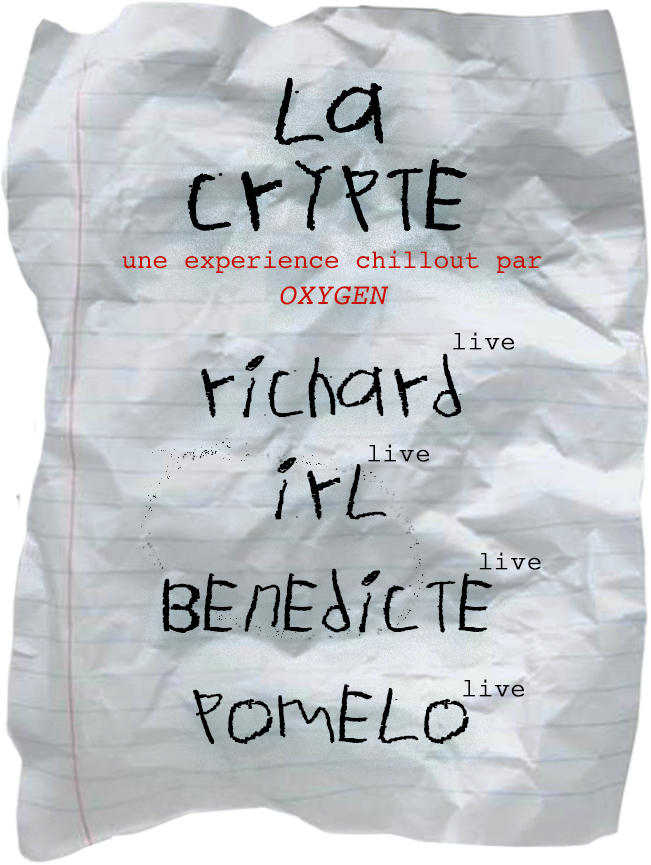
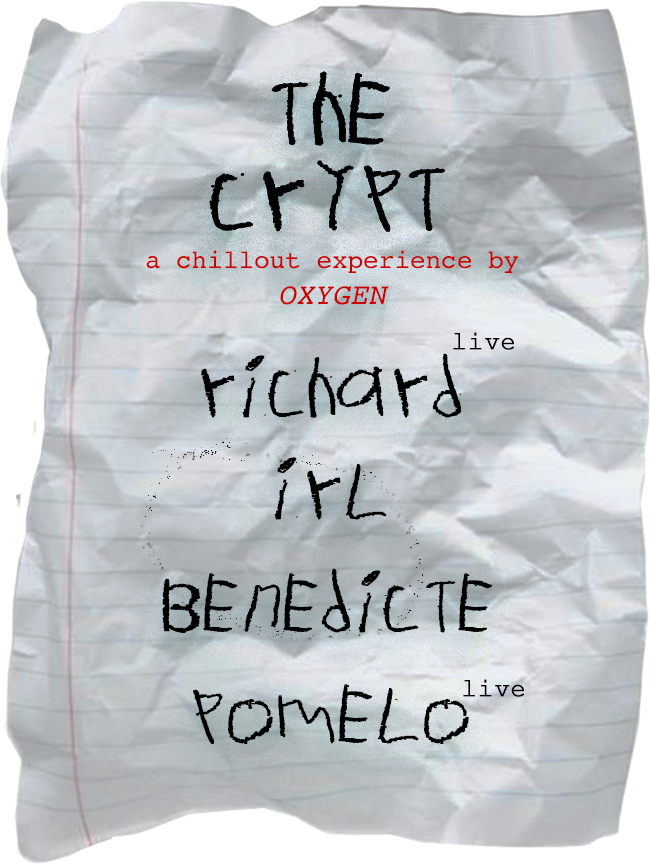
updated oxygen lineup

Changed region(s): [[0.1843, 0.0624, 0.8295, 0.3121], [0.768, 0.6243, 0.8295, 0.6555], [0.6144, 0.4994, 0.6452, 0.5306]]

diff --git a/navigation-fr.html b/navigation-fr.html
@@ -80,8 +80,8 @@
             <h2>la crypte</h2>
             <p id="txt-sub">une expérience<br>chillout par<br>OXYGEN</p>
             <p>richard<span id="txt-location">live</span></p>
-            <p>IRL<span id="txt-location">live</span></p>
-            <p>Benedicte<span id="txt-location">live</span></p>
+            <p>IRL<span id="txt-location"></span></p>
+            <p>Benedicte<span id="txt-location"></span></p>
             <p>Pomelo<span id="txt-location">live</span></p>
           </div>
           <picture>
@@ -189,9 +189,7 @@
         <div id="text">
           <h2>contact</h2>
           <p><br>
-            Cet événement est organisé par notre communauté et toutes les contributions sont les bienvenues. N'hésitez
-            pas à nous contacter si vous êtes en mesure de contribuer avec un projet créatif, du matériel ou de l'aide
-            pratique :)
+            Cet événement est organisé par notre communauté et toutes les contributions sont les bienvenues. SVP CONTACTEZ-NOUS PAR COURRIEL. NOUS NE RÉPONDONS PAS AU MPs SUR INSTA.
             <br><br>
             <a href="mailto:the.banshee.night[at]gmail[dot]com" id="link" style="font-size: 18px;">the.banshee.night[at]gmail[dot]com</a>
             <br><br>
@@ -361,8 +359,7 @@
           <h3>contact</h3>
         </div>
         <p><br>
-          Cet événement est organisé par notre communauté et toutes les contributions sont les bienvenues. N'hésitez pas
-          à nous contacter si vous êtes en mesure de contribuer avec un projet créatif, du matériel ou de l'aide pratique :)
+          Cet événement est organisé par notre communauté et toutes les contributions sont les bienvenues. SVP CONTACTEZ-NOUS PAR COURRIEL. NOUS NE RÉPONDONS PAS AU MPs SUR INSTA.
           <br><br>
           <a href="mailto:the.banshee.night[at]gmail[dot]com" id="link" style="font-size: 18px;">the.banshee.night[at]gmail[dot]com</a>
           <br><br>

diff --git a/navigation-en.html b/navigation-en.html
@@ -79,8 +79,8 @@
             <h2>the crypt</h2>
             <p id="txt-sub">a chillout experience by<br>OXYGEN</p>
             <p>richard<span id="txt-location">live</span></p>
-            <p>IRL<span id="txt-location">live</span></p>
-            <p>Benedicte<span id="txt-location">live</span></p>
+            <p>IRL<span id="txt-location"></span></p>
+            <p>Benedicte<span id="txt-location"></span></p>
             <p>Pomelo<span id="txt-location">live</span></p>
           </div>
           <picture>
@@ -183,8 +183,7 @@
         <div id="text">
           <h2>contact</h2>
           <p><br>
-            This is a community-driven event, and we welcome all contributions. Please contact us if you are able to
-            contribute with a creative project, materials, or hands-on help :)
+            This is a community-driven event, and we welcome all contributions. PLEASE CONTACT US VIA EMAIL. WE WILL NOT RESPOND TO IG DMs.
             <br><br>
             <a href="mailto:the.banshee.night[at]gmail[dot]com" id="link">the.banshee.night[at]gmail[dot]com</a>
             <br><br>
@@ -358,8 +357,7 @@
         <h3>contact</h3>
       </div>
       <p><br>
-        This is a community-driven event, and we welcome all contributions. Please contact us if you are able to
-        contribute with a creative project, materials, or hands-on help :)
+        This is a community-driven event, and we welcome all contributions. PLEASE CONTACT US VIA EMAIL. WE WILL NOT RESPOND TO IG DMs.
         <br><br>
         <a href="mailto:the.banshee.night[at]gmail[dot]com" id="link" style="font-size: 18px;">the.banshee.night[at]gmail[dot]com</a>
         <br><br>
